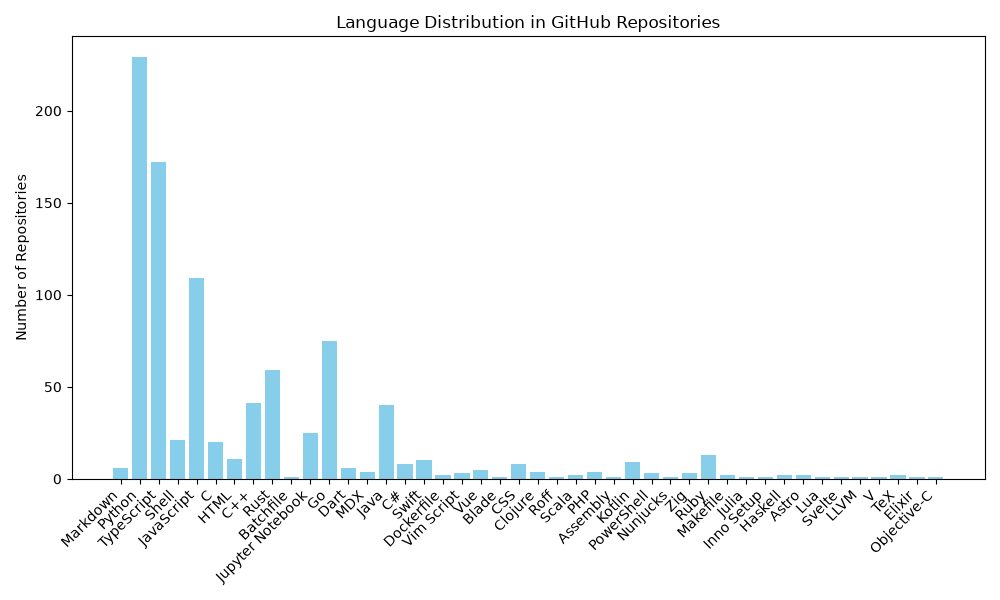
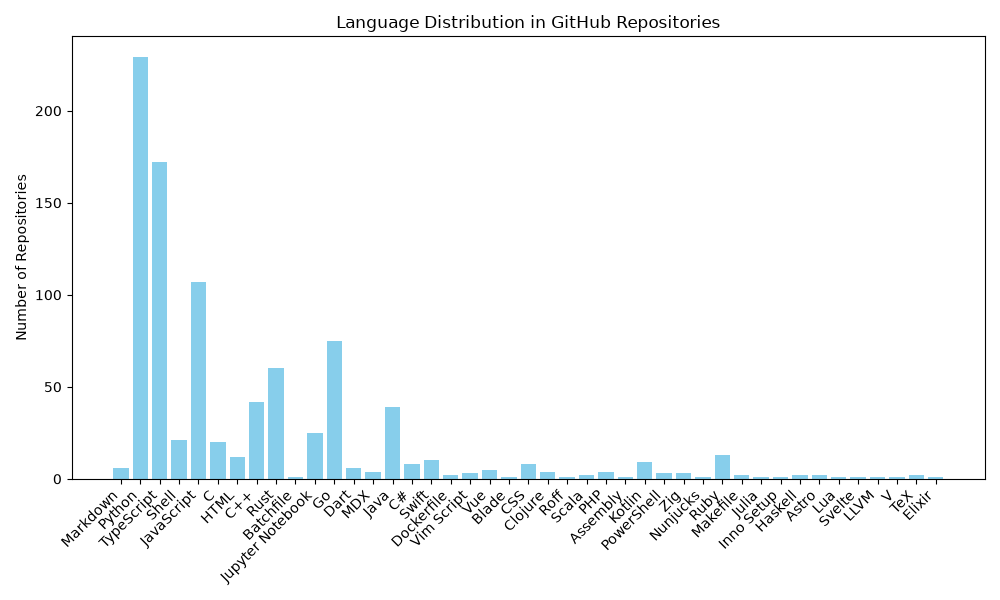
Update language distribution chart

Changed region(s): [[0.062, 0.45, 0.93, 0.99]]

diff --git a/README.md b/README.md
@@ -2,10 +2,10 @@
 
 ![Language Distribution Chart](language_distribution_bar_chart.png)
 
-Total repositories processed: 913
+Total repositories processed: 912
 
 Language distribution:
-Markdown: 6, Python: 229, TypeScript: 172, Shell: 21, JavaScript: 109, C: 20, HTML: 11, C++: 41, Rust: 59, Batchfile: 1, Jupyter Notebook: 25, Go: 75, Dart: 6, MDX: 4, Java: 40, C#: 8, Swift: 10, Dockerfile: 2, Vim Script: 3, Vue: 5, Blade: 1, CSS: 8, Clojure: 4, Roff: 1, Scala: 2, PHP: 4, Assembly: 1, Kotlin: 9, PowerShell: 3, Nunjucks: 1, Zig: 3, Ruby: 13, Makefile: 2, Julia: 1, Inno Setup: 1, Haskell: 2, Astro: 2, Lua: 1, Svelte: 1, LLVM: 1, V: 1, TeX: 2, Elixir: 1, Objective-C: 1
+Markdown: 6, Python: 229, TypeScript: 172, Shell: 21, JavaScript: 107, C: 20, HTML: 12, C++: 42, Rust: 60, Batchfile: 1, Jupyter Notebook: 25, Go: 75, Dart: 6, MDX: 4, Java: 39, C#: 8, Swift: 10, Dockerfile: 2, Vim Script: 3, Vue: 5, Blade: 1, CSS: 8, Clojure: 4, Roff: 1, Scala: 2, PHP: 4, Assembly: 1, Kotlin: 9, PowerShell: 3, Zig: 3, Nunjucks: 1, Ruby: 13, Makefile: 2, Julia: 1, Inno Setup: 1, Haskell: 2, Astro: 2, Lua: 1, Svelte: 1, LLVM: 1, V: 1, TeX: 2, Elixir: 1
 
 
-_Last updated: 2026-09-06 02:31:20_
+_Last updated: 2026-09-13 02:44:57_
